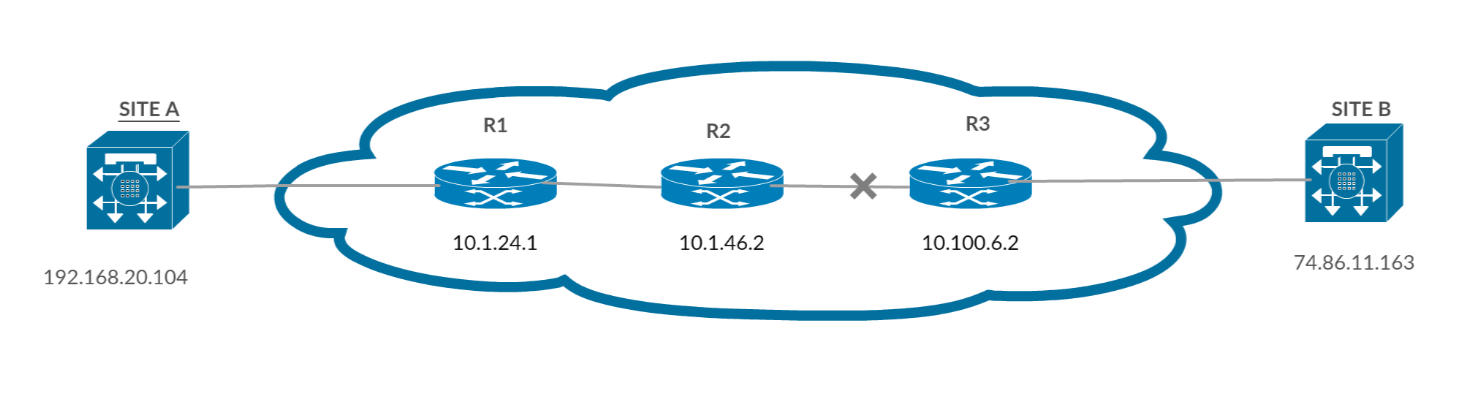
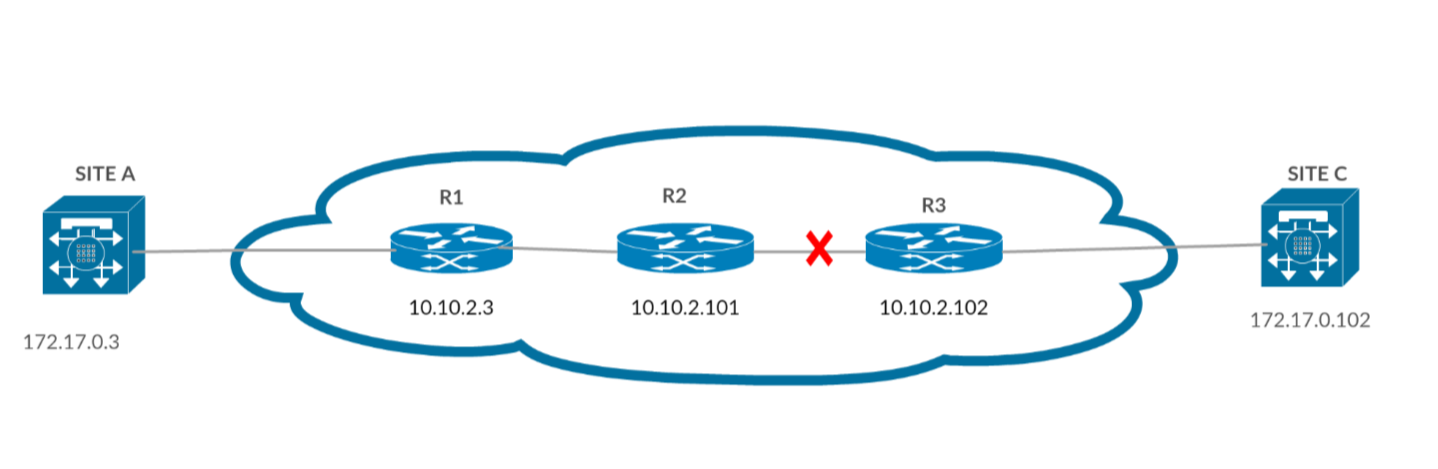
Topology image added

Changed region(s): [[0.0, 0.1485, 0.9791, 0.8317]]

diff --git a/src/_components/user/TroubleShoot.jsx b/src/_components/user/TroubleShoot.jsx
@@ -100,7 +100,7 @@ let avgCol = [
     "utilization",
     "jitter",
     "packet_loss"
-    
+
 
 ];
 
@@ -108,7 +108,7 @@ let avgHead = [
 
     "Component Name",
     "Source IP",
-    "Destination IP",    
+    "Destination IP",
     "Utilization (%)",
     "Jitter (ms)",
     "Packet Loss (%)",
@@ -165,7 +165,7 @@ class TroubleShoot extends React.Component {
         let routeHeaderData = [];
         let rowRouteData = [];
         let routeData = [];
-        let avgData =[];
+        let avgData = [];
 
         /**
          * Table for average data , for route details.
@@ -215,21 +215,28 @@ class TroubleShoot extends React.Component {
         }
         return (
             <Row>
+                 <Col xs="12" sm="12" md="12" lg="12" xl="12">
+                    <div className="panel panel-default">
+                        <i className=""></i>
+                        <div className="panel-heading">
+                            <h3> Topology</h3>
+                        </div>
+
+                        <div className="panel-body">
+                            <div className="list-group">
+                                <div>
+                                    <img className="topologyImg" src="src/assets/images/topology-final.png" alt="topology" />
+                                </div>
+                            </div>
+                        </div>
+                    </div>
+                </Col>
+              
                 <Col xs="12" sm="12" md="12" lg="12" xl="12">
                     <div className="panel panel-default">
                         <i className=""></i>
                         <div className="panel-heading">
                             <h3>Route Details</h3>
-                        </div>
-
-                        <div className="panel-body">
-                            <div className="list-group">
-                                <table className="table table-striped table-bordered">
-                                    <tbody>
-                                        {avgData}
-                                    </tbody>
-                                </table>
-                            </div>
                         </div>
 
                         <div className="panel-body">
@@ -243,6 +250,25 @@ class TroubleShoot extends React.Component {
                         </div>
                     </div>
                 </Col>
+
+                <Col xs="12" sm="12" md="12" lg="12" xl="12">
+                    <div className="panel panel-default">
+                        <i className=""></i>
+                        <div className="panel-heading">
+                            <h3>Average Details</h3>
+                        </div>
+                        <div className="panel-body">
+                            <div className="list-group">
+                                <table className="table table-striped table-bordered">
+                                    <tbody>
+                                        {avgData}
+                                    </tbody>
+                                </table>
+                            </div>
+                        </div>
+                    </div>
+                </Col>
+               
             </Row>
         );
     }

diff --git a/src/_components/user/EventDetails.jsx b/src/_components/user/EventDetails.jsx
@@ -195,6 +195,7 @@ class EventDetails extends React.Component {
       "Poll Bit",
       "Final Bit",
       "Multiplier",
+      "Length",
       "My Discr",
       "Your Discr",
       "Min tx interval",
@@ -236,7 +237,7 @@ class EventDetails extends React.Component {
       </tr>);
     }
 
-    for (let index = 0; index < col.length; index++) {
+    for (let index = 0; index < tHead.length; index++) {
       rowEventData.push(<tr key={col[index]}><td style={{ "fontWeight": "bold" }}>{tHead[index]}</td><td >{eventDetails[0][col[index]]}</td></tr>);
     }
 

diff --git a/src/_components/user/Filter.js b/src/_components/user/Filter.js
@@ -122,7 +122,6 @@ class Filter extends Component {
     
     if (selectedSite != undefined) {
       siteName = selectedSite.target.value;
-      console.log("link", selectedSite.target.value);
       metrics.push(metricsData[0]);
     } else {
       metrics.push(metricsData[0]);

diff --git a/src/assets/css/App.css b/src/assets/css/App.css
@@ -86,11 +86,11 @@ background-color: #2E77B8 !important;
   width: 50% !important;
 }
 
-.view_page_table tr:nth-child(odd) {
-   
-   
+.topologyImg {
+  width: 50%;
+  margin-left: 25%;
+  margin-right: 25%
 }
-
 
 .inline_block {
   display: inline-block;
